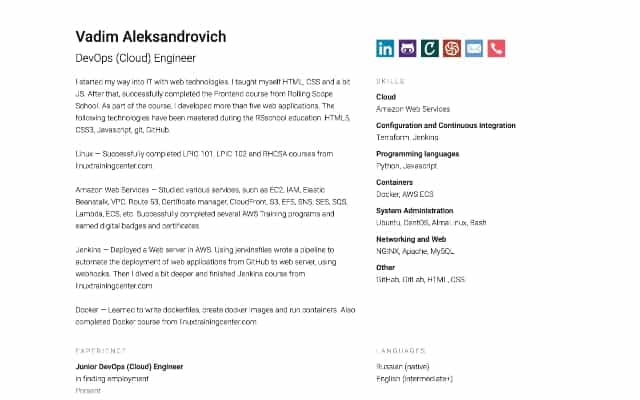
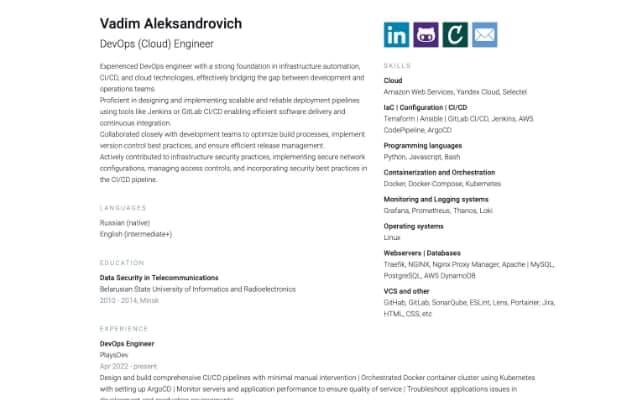
add: cert, fix some issues

Changed region(s): [[0.0938, 0.03, 0.875, 1.0]]

diff --git a/src/js/index.js b/src/js/index.js
@@ -9,10 +9,11 @@ import blockExperience from '@content/experience.js';
 import blockEducation from '@content/education.js';
 import blockCertificates from '@content/certificates.js';
 import blockProjects from '@content/projects.js';
-
 import infoLanguage from '@content/infoLanguage.js';
 import infoSocial from '@content/infoSocial.js';
 import infoSkills from '@content/infoSkills.js';
+
+let isProjects=false
 
 const body = document.querySelector('body');
 const header = create('header', 'header');
@@ -23,7 +24,10 @@ const about = create('article', 'container container_about', '', main);
 const experience = create('article', 'container container_experience', `${containers.experience}`, main);
 const education = create('article', 'container container_education', `${containers.education}`, main);
 const certificats = create('article', 'container container_certificats', `${containers.certificats}`, main);
-const projects = create('article', 'container container_projects', `${containers.projects}`, main);
+if (isProjects) {
+  var projects = create('article', 'container container_projects', `${containers.projects}`, main);
+}
+
 const skills = create('article', 'container container_skills', `${containers.skills}`, main);
 const languages = create('article', 'container container_languages', `${containers.languages}`, main);
 
@@ -104,7 +108,6 @@ const createSocial = function creeateSocial() {
 
 const createLanguages = function createLanguages() {
   const item = create('section', 'info info__language','', languages);
-  // create('h2', 'container_title',`${infoTitles.language}`, item);
   for (let i = 0; i < infoLanguage.length; i += 1) {
     create('p', 'item__content', `${infoLanguage[i]}`, item);
   }
@@ -115,10 +118,14 @@ createLanguages();
 createExperience();
 createEducation();
 createCertificates();
-createProjects();
 
-  let popupWindow = create('div', "popup__window","",body);
-  let popupCard;
+if (isProjects) {
+  createProjects();
+}
+
+
+let popupWindow = create('div', "popup__window","",body);
+let popupCard;
 function popupCreator(i) {
   popupCard = create("img", "popup__card", "", popupWindow, ['src', blockCertificates[i].image]);
 }

diff --git a/src/js/content/about.js b/src/js/content/about.js
@@ -1,6 +1,6 @@
 export default {
   title: "Vadim Aleksandrovich",
   subtitle: "DevOps (Cloud) Engineer",
-  content: "Creating, designing, maintaining infrastructure and management with the Terraform. <br>Writing scripts to automate tasks.<br>Application containerization and launch on ECS (EC2 and Fargate).<br>Setting up ArgoCD to implement GitOps aproach and automate application deployments in Kubernetes.<br>Designing and deployment of monitoring systems based on Prometheus.<br>Automate applications deployments in Kubernetes.<br>Containerization applications.<br>Building a fault-tolerant microservice architecture<br>Using the IaC approach to develop infrastructure.<br>Setting up ArgoCD to implement GitOps aproach.<br>Actively manage, improve and monitor cloud infrastructure.<br>Working with database systems.<br>Writing shell scripts to solve routin tasks.",
+  content: "Experienced DevOps engineer with a strong foundation in infrastructure automation, CI/CD, and cloud technologies, effectively bridging the gap between development and operations teams. <br> Proficient in designing and implementing scalable and reliable deployment pipelines using tools like Jenkins or GitLab CI/CD enabling efficient software delivery and continuous integration. <br> Collaborated closely with development teams to optimize build processes, implement version control best practices, and ensure efficient release management. <br> Actively contributed to infrastructure security practices, implementing secure network configurations, managing access controls, and incorporating security best practices in the CI/CD pipeline.",
   photo: "./assets/images/avatar.jpeg",
 }

diff --git a/src/js/content/experience.js b/src/js/content/experience.js
@@ -2,8 +2,20 @@ export default [
   {
     title:    "Co-founder and Head of Sales Department",
     subtitle: "Candy Food",
-    date:     "May 2016 - Feb 2022",
+    date:     "May 2016 - Mar 2020",
     content:  "Responsible for ensuring that the sales team collectively works together to drive the business forward."
+  },
+  {
+    title:    "Trainee DevOps Engineer",
+    subtitle: "NDA",
+    date:     " Dec 2019 - Mar 2020",
+    content:  "Completed a DevOps internship, working collaboratively with development and operations teams to improve infrastructure performance and reliability | Contributed to the creation of CI/CD pipelines using tools like Jenkins or GitLab CI, enabling automated building, testing, and deployment of applications | Engaged in monitoring and troubleshooting of system resources and applications, ensuring optimal performance and identifying potential issues."
+  },
+  {
+    title:    "DevOps Engineer",
+    subtitle: "NDA",
+    date:     "Apr 2020 - Feb 2022",
+    content:  "Implemented and maintained CI/CD pipelines using GitLab CI/CD, enabling automated builds, tests, and deployments for multiple projects | Assisted in managing cloud infrastructure on AWS, provisioning EC2 instances, and configuring load balancers for high availability and fault tolerance | Worked with the operations team to monitor and optimize application performance using tools such as Prometheus and Grafana"
   },
   {
     title:    "DevOps Engineer",

diff --git a/src/styles/media.scss b/src/styles/media.scss
@@ -13,8 +13,8 @@
     "name name info"
     "about about skills"
     "languages languages skills"
+    "education education skills"
     "experience experience experience"
-    "education education education"
     "certificats certificats certificats"
     "projects projects projects";
   }
@@ -31,8 +31,8 @@
     "name name info"
     "about about skills"
     "languages languages skills"
+    "education education skills"
     "experience experience experience"
-    "education education education"
     "certificats certificats certificats"
     "projects projects projects";
   }
@@ -61,13 +61,6 @@
     max-width: 7rem;
   }
 
-  .container_skills {
-    .item_skill {
-    }
-    .item_skill:nth-of-type(2n){
-    }
-  }
-
   .container_certificats
   .item__image-cert {
     max-width: 12rem;
@@ -78,7 +71,7 @@
   }
 
   .social__img {
-    max-width: 2.1rem;
+    max-width: 3.1rem;
     margin-right: 0.4rem;
   }
 
@@ -156,7 +149,7 @@
   }
 
   .social__img {
-    max-width: 3.5rem;
+    max-width: 6.5rem;
     margin-right: 0.5rem;
   }
 

diff --git a/src/js/content/infoSkills.js b/src/js/content/infoSkills.js
@@ -2,7 +2,7 @@ export default [
 
   {
     title:      'Cloud',
-    content:    'Amazon Web Services, Yandex Cloud',
+    content:    'Amazon Web Services, Yandex Cloud, Selectel',
   },
 
   {
@@ -31,12 +31,12 @@ export default [
 
   {
     title:      'Webservers | Databases',
-    content:    'NGINX, Nginx Proxy Manager, Apache | MySQL, PostgreSQL',
+    content:    'Traefik, NGINX, Nginx Proxy Manager, Apache | MySQL, PostgreSQL, AWS DynamoDB'
   },
 
   {
     title:      'VCS and other',
-    content:    'GitHab, GitLab, Lens, Portainer, Jira, HTML, CSS, etc',
+    content:    'GitHab, GitLab, SonarQube, ESLint, Lens, Portainer, Jira, HTML, CSS, etc',
   },
 
 ]

diff --git a/src/js/content/certificates.js b/src/js/content/certificates.js
@@ -122,6 +122,15 @@ export default [
     badge:    "./assets/images/certificates/gitops-fundamentals-badge.png",
     image:    "./assets/images/certificates/gitops-fundamentals-cert.jpg",
     id:       "13",
+  },
+  {
+    title:    "AWS Learning: Architecting",
+    subtitle: "Amazon Web Services Training and Certification",
+    date:     "May 2023",
+    badge:    "./assets/images/certificates/aws-learning-architecting-badge.png",
+    image:    "./assets/images/certificates/aws-learning-architecting-badge.png",
+    id:       "14",
+
   }
 ]
 

diff --git a/src/js/content/infoSocial.js b/src/js/content/infoSocial.js
@@ -23,13 +23,13 @@ export default [
   icon:     './assets/images/links/credly.jpg',
 },
 
-{
-  title:    'codewars',
-  link:     'https://www.codewars.com/users/vadim-aleksandrovich',
-  content:  '',
-  cssClass: 'social__img_cw',
-  icon:     './assets/images/links/codewars.jpg',
-},
+// {
+//   title:    'codewars',
+//   link:     'https://www.codewars.com/users/vadim-aleksandrovich',
+//   content:  '',
+//   cssClass: 'social__img_cw',
+//   icon:     './assets/images/links/codewars.jpg',
+// },
 
 {
   title:    'email',

diff --git a/src/js/content/projects.js b/src/js/content/projects.js
@@ -41,7 +41,7 @@ export default [
 
   {
     title:      "Gem Puzzle",
-    subtitle:   "Famous game, where you need to put the gems in the right order. If you can't, just click 'autofinish' to see how it works)",
+    subtitle:   "Famous game, where you need to put gems in the right order. If you can't, just click 'autofinish' to see how it works)",
     date:       "Jan 2021",
     content:    "Browser's Events, Browser's Storage, Algorithms, Javascript, CSS3, HTML5",
     image:      "./assets/images/projects/gem-puzzle.jpeg",

diff --git a/src/styles/style.scss b/src/styles/style.scss
@@ -98,8 +98,8 @@ body {
     "name name info"
     "about about skills"
     "languages languages skills"
+    "education education skills"
     "experience experience experience"
-    "education education education"
     "certificats certificats certificats"
     "projects projects projects";
 }
@@ -262,7 +262,7 @@ body {
 .social__img {
   filter: brightness($social__brightness) grayscale($social__grayscale);
   margin-right: 1rem;
-  max-width: 4rem;
+  max-width: 6rem;
   border-radius:3%;
 }
 
